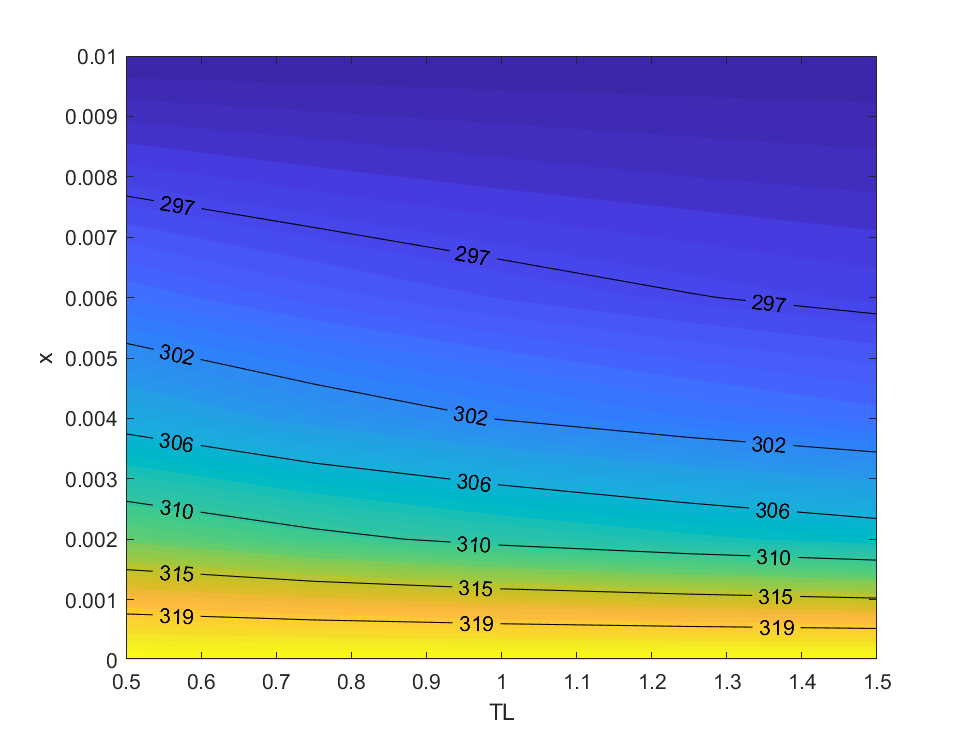
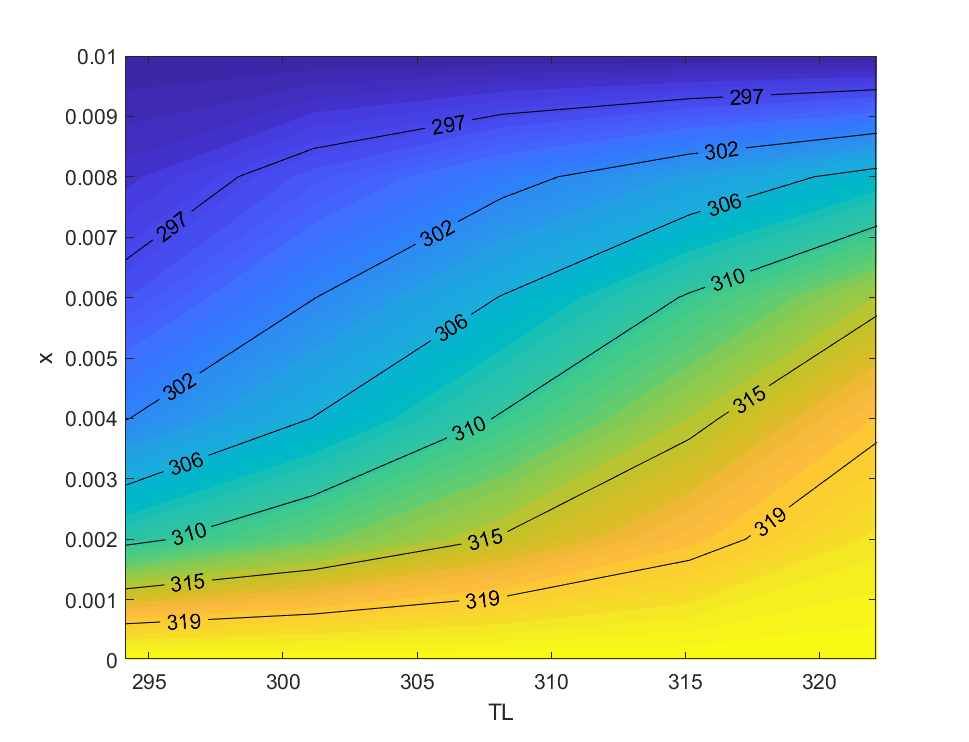
Change profile to change in TL with correct label.

diff --git a/part2batch.m b/part2batch.m
@@ -31,7 +31,7 @@ saveas(f,'status/part2a_contor.png');
 
 %Plot how temp profile varies with Q
 f4=figure('pos',[400,400,620,475]);
-[x,y,z]= compileResultProfiles(Batch,1,1);
+[x,y,z]= compileResultProfiles(Batch,2);
 contourf(x,y,z,50,'ShowText','off','LineColor','none');
 hold on
 [cc,hh]=contour(x,y,z,6,'ShowText','on','LineColor','k');
